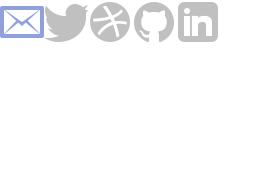
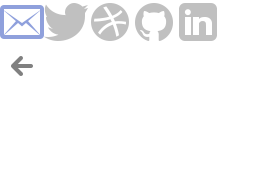
- Adds primitive navigate back from project behaviour - Better pages off animation + quicker strip down animation - Adds animated page scroll

diff --git a/assets/css/web.css b/assets/css/web.css
@@ -1,1 +1,1 @@
-body{margin:0;background:#fcfcfc;color:#323232;font-size:.85em;line-height:1.45}body,input,textarea,.meta{font-family:'Bitter', serif}.titlelike,h1,h2,.teaserline-tag{font-family:'Cabin', serif;font-weight:bold;font-size:.95rem}ul,ol,dl{margin:0;padding:0;list-style:none}dd,dt{display:inline-block}dd{margin-left:.35rem}dd:not(:last-child){margin-bottom:.35rem}.contact-link{background:url('../images/ui.png')}@media only screen and (-webkit-min-device-pixel-ratio: 2){.contact-link{background:url('../images/ui@2x.png');background-size:132px 88px}}html,body,.pages{height:100%}.wrapper{margin:0 auto}.pages{height:200%}.page{position:relative;display:table;width:100%;height:50%}.page-content{display:table-cell;vertical-align:middle}.footer{position:absolute;bottom:0;left:0;width:100%;padding-bottom:1.5rem;text-align:center;font-size:.6rem;line-height:1.2}.footer p:last-child{margin-bottom:0}.columns{letter-spacing:-.25rem}.column{display:inline-block;vertical-align:top;letter-spacing:normal}.column:not(:first-child){margin-left:10px}.column *:first-child{margin:0}.column-1{width:185px}.column-2{width:380px}.column-3{width:575px}.column-4{width:770px}.va-wrapper{display:table;width:100%;height:100%}.va-content{display:table-cell;vertical-align:middle;text-align:center}.crowded{line-height:1.25}.meta{font-size:inherit;text-align:right;line-height:1.1}.meta,.metalike{font-style:italic;font-weight:normal;color:#b2b2b2}.teaserline{position:absolute;width:100%;bottom:0;text-align:center}.teaserline.top{top:0}.teaserline.bottom{bottom:0}.teaserline::before{content:"";display:inline-block;width:2px;height:100%}.teaserline-tag-wrapper{position:absolute;top:0;text-transform:uppercase}.teaserline-tag{padding:.4em .6em;border-radius:3px;font-size:.75rem;letter-spacing:.05em;color:silver}a{text-decoration:none}a:not(.custom){border-bottom:1px solid;color:#8fa0dc;border-color:#dde2f4}.transitionable{transition:transform 0.4s cubic-bezier(0.48, -0.18, 0, 1.1);-webkit-transition:-webkit-transform 0.4s cubic-bezier(0.48, -0.18, 0, 1.1);-moz-transition:-moz-transform 0.4s cubic-bezier(0.48, -0.18, 0, 1.1);-ms-transition:-ms-transform 0.4s cubic-bezier(0.48, -0.18, 0, 1.1)}.transitionable-rough{transition:transform 0.4s cubic-bezier(0.5, 1, 0, 1.1);-webkit-transition:-webkit-transform 0.4s cubic-bezier(0.5, 1, 0, 1.1);-moz-transition:-moz-transform 0.4s cubic-bezier(0.5, 1, 0, 1.1);-ms-transition:-ms-transform 0.4s cubic-bezier(0.5, 1, 0, 1.1)}.transitionable-toned{transition:transform 0.6s ease-in-out;-webkit-transition:-webkit-transform 0.6s ease-in-out;-moz-transition:-moz-transform 0.6s ease-in-out;-ms-transition:-ms-transform 0.6s ease-in-out}.widthable{transition:width 0.4s cubic-bezier(1, -0.18, 0, 1.1);-webkit-transition:width 0.4s cubic-bezier(1, -0.18, 0, 1.1);-moz-transition:width 0.4s cubic-bezier(1, -0.18, 0, 1.1);-ms-transition:width 0.4s cubic-bezier(1, -0.18, 0, 1.1)}.fadable{transition:opacity 0.4s cubic-bezier(1, -0.18, 0, 1.1);-webkit-transition:opacity 0.4s cubic-bezier(1, -0.18, 0, 1.1);-moz-transition:opacity 0.4s cubic-bezier(1, -0.18, 0, 1.1);-ms-transition:opacity 0.4s cubic-bezier(1, -0.18, 0, 1.1)}.transparent{opacity:0 !important}.mode-project{overflow:hidden}.home-navigation{margin-top:3rem;text-align:center;text-transform:uppercase}.home-navigation-item:not(:first-child){margin-left:2em}.home-navigation-item.active .home-navigation-link,.home-navigation-item:focus .home-navigation-link,.home-navigation-item:hover .home-navigation-link{color:#8fa0dc}.home-navigation-link{color:#cbcbcb}.strip,.teaserline::before,.teaserline-tag{background:#f3f3f3}.strip{position:relative;height:2px;margin:10px 0}.navline{position:absolute;height:100%;background:#d2d9f1;-webkit-transition:-webkit-transform 0.4s cubic-bezier(0.48, -0.18, 0, 1.1);-webkit-transition-property:width, -webkit-transform}.strip-header{margin-top:.35rem}.projects{height:458px;line-height:0;-webkit-perspective:800px}.project-item{display:inline-block;width:185px;height:146px;border-radius:3px;box-shadow:inset 0 0 1px rgba(0,0,0,0.15);transition:0.1s cubic-bezier(0.5, 1, 0, 1.1);-webkit-transition:0.1s cubic-bezier(0.5, 1, 0, 1.1);-moz-transition:0.1s cubic-bezier(0.5, 1, 0, 1.1);-ms-transition:0.1s cubic-bezier(0.5, 1, 0, 1.1);transition-property:transform,opacity;-webkit-transition-property:-webkit-transform,opacity;-moz-transition-property:-moz-transform,opacity;-ms-transition-property:-ms-transform,opacity}.project-item:not(:nth-child(4n)){margin-right:10px}.project-item:not(:nth-child(-n+4)){margin-top:10px}.flock .project-item:nth-child(1),.flock-out .project-item:nth-last-child(1){-webkit-transition-delay:0.04s}.flock .project-item:nth-child(2),.flock-out .project-item:nth-last-child(2){-webkit-transition-delay:0.08s}.flock .project-item:nth-child(3),.flock-out .project-item:nth-last-child(3){-webkit-transition-delay:0.12s}.flock .project-item:nth-child(4),.flock-out .project-item:nth-last-child(4){-webkit-transition-delay:0.16s}.flock .project-item:nth-child(5),.flock-out .project-item:nth-last-child(5){-webkit-transition-delay:0.2s}.flock .project-item:nth-child(6),.flock-out .project-item:nth-last-child(6){-webkit-transition-delay:0.24s}.flock .project-item:nth-child(7),.flock-out .project-item:nth-last-child(7){-webkit-transition-delay:0.28s}.flock .project-item:nth-child(8),.flock-out .project-item:nth-last-child(8){-webkit-transition-delay:0.32s}.flock .project-item:nth-child(9),.flock-out .project-item:nth-last-child(9){-webkit-transition-delay:0.36s}.flock .project-item:nth-child(10),.flock-out .project-item:nth-last-child(10){-webkit-transition-delay:0.4s}.flock .project-item:nth-child(11),.flock-out .project-item:nth-last-child(11){-webkit-transition-delay:0.44s}.flock .project-item:nth-child(12),.flock-out .project-item:nth-last-child(12){-webkit-transition-delay:0.48s}.project-item:not(.active){pointer-events:none}.project-item.off{-webkit-transform:translate3d(0, 500%, 0);opacity:0}.project-item.pop-ready{-webkit-transform:rotateY(90deg) rotateY(40deg) scale(0.1);opacity:0}.project-item:hover,.project-item:focus{transform:scale(0.95);-webkit-transform:scale(0.95);-moz-transform:scale(0.95);-ms-transform:scale(0.95)}.project-item:hover .showcase-art,.project-item:focus .showcase-art{transform:scale(1.1);-webkit-transform:scale(1.1);-moz-transform:scale(1.1);-ms-transform:scale(1.1)}.showcase-art{position:relative;display:inline-block}.teaserline.bottom{height:30px}.teaserline.top{height:145px}.home-footer{margin-top:4em;font-size:.85rem}.justified{text-align:justify;text-align-last:justify}.justified::after{content:"";display:inline-block;width:100%}.about-header{text-align:center}.about-title{font-size:1.4rem;margin:.7rem 0 0;color:#b2b2b2}.about-title span{display:none}.about-title::before{content:"Oz Pinhas"}.about-subtitle{margin:0}.about-job{width:24em;margin:1rem auto}.about-job .meta{width:5.1em}.previously{text-decoration:line-through}.contact-item:not(:first-child){margin-left:68px}.contact-item:hover,.contact-item:active{transform:translate3d(0, -5px, 0);-webkit-transform:translate3d(0, -5px, 0);-moz-transform:translate3d(0, -5px, 0);-ms-transform:translate3d(0, -5px, 0)}.contact-link{display:block;width:22px;height:22px;overflow:hidden;text-indent:-9999em}.contact-link-email{background-position:0px 0}.contact-link-twitter{background-position:-22px 0}.contact-link-dribbble{background-position:-44px 0}.contact-link-github{background-position:-66px 0}.contact-link-linkedin{background-position:-88px 0}.project{position:absolute;top:0;left:0;width:100%;overflow:auto;height:100%}.project:not(.active){z-index:-1}.project-artwork{position:absolute}.project-header{position:relative;height:292px;overflow:hidden;text-align:center}.project-header.colored::after{content:"";position:absolute;bottom:0;left:0;width:100%;height:1px;background:rgba(0,0,0,0.08)}.ripple{display:inline-block;width:292px;height:292px;border-radius:100%;transform:translate3d(0, 30px, 0) scale(0);-webkit-transform:translate3d(0, 30px, 0) scale(0);-moz-transform:translate3d(0, 30px, 0) scale(0);-ms-transform:translate3d(0, 30px, 0) scale(0)}.project-title{position:absolute;bottom:.8em;width:100%;font-size:1.3rem;opacity:.6}.project-meta{width:21em;margin:2rem auto 0}.project-meta dt{width:3em}.project-meta dd{width:17em}.project-separator{width:20px;height:20px;margin:6.2rem auto}
+body{margin:0;background:#fcfcfc;color:#323232;font-size:.85em;line-height:1.45}body,input,textarea,.meta{font-family:'Bitter', serif}.titlelike,h1,h2,.teaserline-tag{font-family:'Cabin', serif;font-weight:bold;font-size:.95rem}ul,ol,dl{margin:0;padding:0;list-style:none}dd,dt{display:inline-block}dd{margin-left:.35rem}dd:not(:last-child){margin-bottom:.35rem}.contact-link,.back-button::before{background:url('../images/ui.png')}@media only screen and (-webkit-min-device-pixel-ratio: 2){.contact-link,.back-button::before{background:url('../images/ui@2x.png');background-size:132px 88px}}html,body,.pages{height:100%}.wrapper{margin:0 auto}.pages{height:200%}.page{position:relative;display:table;width:100%;height:50%}.page-content{display:table-cell;vertical-align:middle}.footer{position:absolute;bottom:0;left:0;width:100%;padding-bottom:1.5rem;text-align:center;font-size:.6rem;line-height:1.2}.footer p:last-child{margin-bottom:0}.columns{letter-spacing:-.25rem}.column{display:inline-block;vertical-align:top;letter-spacing:normal}.column:not(:first-child){margin-left:10px}.column *:first-child{margin:0}.column-1{width:185px}.column-2{width:380px}.column-3{width:575px}.column-4{width:770px}.va-wrapper{display:table;width:100%;height:100%}.va-content{display:table-cell;vertical-align:middle;text-align:center}.crowded{line-height:1.25}.meta{font-size:inherit;text-align:right;line-height:1.1}.meta,.metalike{font-style:italic;font-weight:normal;color:#b2b2b2}.teaserline{position:absolute;width:100%;bottom:0;text-align:center}.teaserline.top{top:0}.teaserline.bottom{bottom:0}.teaserline::before{content:"";display:inline-block;width:2px;height:100%}.teaserline-tag-wrapper{position:absolute;top:0;text-transform:uppercase}.teaserline-tag{padding:.4em .6em;border-radius:3px;font-size:.75rem;letter-spacing:.05em;color:silver}a{text-decoration:none}a:not(.custom){border-bottom:1px solid;color:#8fa0dc;border-color:#dde2f4}.transitionable{transition:transform 0.4s cubic-bezier(0.48, -0.18, 0, 1.1);-webkit-transition:-webkit-transform 0.4s cubic-bezier(0.48, -0.18, 0, 1.1);-moz-transition:-moz-transform 0.4s cubic-bezier(0.48, -0.18, 0, 1.1);-ms-transition:-ms-transform 0.4s cubic-bezier(0.48, -0.18, 0, 1.1)}.transitionable-rough{transition:transform 0.4s cubic-bezier(0.5, 1, 0, 1.1);-webkit-transition:-webkit-transform 0.4s cubic-bezier(0.5, 1, 0, 1.1);-moz-transition:-moz-transform 0.4s cubic-bezier(0.5, 1, 0, 1.1);-ms-transition:-ms-transform 0.4s cubic-bezier(0.5, 1, 0, 1.1)}.transitionable-rough-slow{transition:transform 0.6s cubic-bezier(0.5, 1, 0, 1.1);-webkit-transition:-webkit-transform 0.6s cubic-bezier(0.5, 1, 0, 1.1);-moz-transition:-moz-transform 0.6s cubic-bezier(0.5, 1, 0, 1.1);-ms-transition:-ms-transform 0.6s cubic-bezier(0.5, 1, 0, 1.1)}.transitionable-toned{transition:transform 0.6s ease-in-out;-webkit-transition:-webkit-transform 0.6s ease-in-out;-moz-transition:-moz-transform 0.6s ease-in-out;-ms-transition:-ms-transform 0.6s ease-in-out}.widthable{transition:width 0.4s cubic-bezier(1, -0.18, 0, 1.1);-webkit-transition:width 0.4s cubic-bezier(1, -0.18, 0, 1.1);-moz-transition:width 0.4s cubic-bezier(1, -0.18, 0, 1.1);-ms-transition:width 0.4s cubic-bezier(1, -0.18, 0, 1.1)}.fadable{transition:opacity 0.4s cubic-bezier(1, -0.18, 0, 1.1);-webkit-transition:opacity 0.4s cubic-bezier(1, -0.18, 0, 1.1);-moz-transition:opacity 0.4s cubic-bezier(1, -0.18, 0, 1.1);-ms-transition:opacity 0.4s cubic-bezier(1, -0.18, 0, 1.1)}.transparent{opacity:0 !important}.mode-project{overflow:hidden}.home-navigation{margin-top:3rem;text-align:center;text-transform:uppercase}.home-navigation-item:not(:first-child){margin-left:2em}.home-navigation-item.active .home-navigation-link,.home-navigation-item:focus .home-navigation-link,.home-navigation-item:hover .home-navigation-link{color:#8fa0dc}.home-navigation-link{color:#cbcbcb}.strip,.teaserline::before,.teaserline-tag{background:#f3f3f3}.strip{position:relative;height:2px;margin:10px 0}.navline{position:absolute;height:100%;background:#d2d9f1;-webkit-transition:-webkit-transform 0.4s cubic-bezier(0.48, -0.18, 0, 1.1);-webkit-transition-property:width, -webkit-transform}.strip-header{margin-top:.35rem}.projects{height:458px;line-height:0;-webkit-perspective:800px}.project-item{display:inline-block;width:185px;height:146px;border-radius:3px;box-shadow:inset 0 0 1px rgba(0,0,0,0.15);transition:0.1s cubic-bezier(0.5, 1, 0, 1.1);-webkit-transition:0.1s cubic-bezier(0.5, 1, 0, 1.1);-moz-transition:0.1s cubic-bezier(0.5, 1, 0, 1.1);-ms-transition:0.1s cubic-bezier(0.5, 1, 0, 1.1);transition-property:transform,opacity;-webkit-transition-property:-webkit-transform,opacity;-moz-transition-property:-moz-transform,opacity;-ms-transition-property:-ms-transform,opacity}.project-item:not(:nth-child(4n)){margin-right:10px}.project-item:not(:nth-child(-n+4)){margin-top:10px}.flock .project-item:nth-child(1),.flock-out .project-item:nth-last-child(1){-webkit-transition-delay:0.04s}.flock .project-item:nth-child(2),.flock-out .project-item:nth-last-child(2){-webkit-transition-delay:0.08s}.flock .project-item:nth-child(3),.flock-out .project-item:nth-last-child(3){-webkit-transition-delay:0.12s}.flock .project-item:nth-child(4),.flock-out .project-item:nth-last-child(4){-webkit-transition-delay:0.16s}.flock .project-item:nth-child(5),.flock-out .project-item:nth-last-child(5){-webkit-transition-delay:0.2s}.flock .project-item:nth-child(6),.flock-out .project-item:nth-last-child(6){-webkit-transition-delay:0.24s}.flock .project-item:nth-child(7),.flock-out .project-item:nth-last-child(7){-webkit-transition-delay:0.28s}.flock .project-item:nth-child(8),.flock-out .project-item:nth-last-child(8){-webkit-transition-delay:0.32s}.flock .project-item:nth-child(9),.flock-out .project-item:nth-last-child(9){-webkit-transition-delay:0.36s}.flock .project-item:nth-child(10),.flock-out .project-item:nth-last-child(10){-webkit-transition-delay:0.4s}.flock .project-item:nth-child(11),.flock-out .project-item:nth-last-child(11){-webkit-transition-delay:0.44s}.flock .project-item:nth-child(12),.flock-out .project-item:nth-last-child(12){-webkit-transition-delay:0.48s}.project-item:not(.active){pointer-events:none}.project-item.off{-webkit-transform:translate3d(0, 500%, 0);opacity:0}.project-item.pop-ready{-webkit-transform:rotateY(90deg) rotateY(40deg) scale(0.1);opacity:0}.project-item:hover,.project-item:focus{transform:scale(0.95);-webkit-transform:scale(0.95);-moz-transform:scale(0.95);-ms-transform:scale(0.95)}.project-item:hover .showcase-art,.project-item:focus .showcase-art{transform:scale(1.1);-webkit-transform:scale(1.1);-moz-transform:scale(1.1);-ms-transform:scale(1.1)}.showcase-art{position:relative;display:inline-block}.teaserline.bottom{height:30px}.teaserline.top{height:145px}.home-footer{margin-top:4em;font-size:.85rem}.justified{text-align:justify;text-align-last:justify}.justified::after{content:"";display:inline-block;width:100%}.pages.off{transform:translate3d(0, 50%, 0);-webkit-transform:translate3d(0, 50%, 0);-moz-transform:translate3d(0, 50%, 0);-ms-transform:translate3d(0, 50%, 0)}.about-header{text-align:center}.about-title{font-size:1.4rem;margin:.7rem 0 0;color:#b2b2b2}.about-title span{display:none}.about-title::before{content:"Oz Pinhas"}.about-subtitle{margin:0}.about-job{width:24em;margin:1rem auto}.about-job .meta{width:5.1em}.previously{text-decoration:line-through}.contact-item:not(:first-child){margin-left:68px}.contact-item:hover,.contact-item:active{transform:translate3d(0, -5px, 0);-webkit-transform:translate3d(0, -5px, 0);-moz-transform:translate3d(0, -5px, 0);-ms-transform:translate3d(0, -5px, 0)}.contact-link{display:block;width:22px;height:22px;overflow:hidden;text-indent:-9999em}.contact-link-email{background-position:0px 0}.contact-link-twitter{background-position:-22px 0}.contact-link-dribbble{background-position:-44px 0}.contact-link-github{background-position:-66px 0}.contact-link-linkedin{background-position:-88px 0}.project{position:absolute;top:0;left:0;width:100%;overflow:auto;height:100%}.project:not(.active){z-index:-1}.project-artwork{position:absolute}.project-header{position:relative;height:292px;overflow:hidden;text-align:center}.project-header.colored::after{content:"";position:absolute;bottom:0;left:0;width:100%;height:1px;background:rgba(0,0,0,0.08)}.ripple{display:inline-block;width:292px;height:292px;border-radius:100%;transform:translate3d(0, 30px, 0) scale(0);-webkit-transform:translate3d(0, 30px, 0) scale(0);-moz-transform:translate3d(0, 30px, 0) scale(0);-ms-transform:translate3d(0, 30px, 0) scale(0)}.project-title{position:absolute;bottom:.8em;width:100%;font-size:1.3rem;opacity:.6}.back-button{position:absolute;top:0.5em;left:0.5em;padding:0.5em;cursor:pointer}.back-button::before{content:"";display:block;width:22px;height:22px;background-position:0 -22px}.back-button:hover,.back-button:focus{transform:scale(1.1);-webkit-transform:scale(1.1);-moz-transform:scale(1.1);-ms-transform:scale(1.1)}.project-meta{width:21em;margin:2rem auto 0}.project-meta dt{width:3em}.project-meta dd{width:17em}.project-separator{width:20px;height:20px;margin:6.2rem auto}

diff --git a/src/js/projects.js b/src/js/projects.js
@@ -15,13 +15,16 @@ var Projects = {
 		projectAnimation: false
 	},
 	projectData: null,
+	activeProject: null,
 
 	/* Setup */
 	setup: function() {
 		Projects.e = $(".project");
-		Projects.eArt = Projects.e.find(".project-artwork");
+		Projects.eArt = $(".project-artwork");
 
 		$(".projects").on("click", Projects.handle_item_activation, { isCaptured: true });
+
+		$(".project .back-button").on("click", Projects.navigate_back);
 	},
 
 	/* Creation */
@@ -209,11 +212,12 @@ var Projects = {
 	navigate: function(project, item) {
 		// Synthesizing args
 		project = Projects.items[Projects.activeCollection][project];
-		item = item || document.querySelector(".project-item[data-id='" + projects.id + "']");
+		item = item || document.querySelector(".project-item[data-id='" + project.id + "']");
 
 		// Marking project as hasn't been loaded yet
 		Projects.did.projectData = false;
 		Projects.did.projectAnimation = false;
+		Projects.activeProject = project.id;
 
 		// Loading project data
 		Projects.animate_into_project(project, item);
@@ -240,7 +244,7 @@ var Projects = {
 		Projects.artData.height = realArt.offsetHeight;
 
 		// Prepping page + UI
-		window.scrollTo(0,0); // TODO: animation
+		_.animate_scroll(document.body);
 		$(document.body).addClass("mode-project");
 		Projects.e.addClass("active");
 
@@ -250,7 +254,7 @@ var Projects = {
 		Projects.eArt[0].style.left = Projects.artData.x + "px";
 		Projects.eArt[0].style.top = Projects.artData.y + "px";
 
-		$(".pages").transform("translate3d(0,50%,0)");
+		$(".pages").addClass("off");
 		
 		// Hiding showcase page + real artwork
 		$(realArt).addClass("transparent");
@@ -290,16 +294,14 @@ var Projects = {
 				Projects.eArt.translate(Projects.artData.newX, Projects.artData.newY);
 				setTimeout(function() {
 					ripple.transform("translate3d(0,30px,0) scale(5)");
-					Projects.e.find(".project-title, .project-meta, .project-separator, .project-content").addClass("fadable").removeClass("transparent");
+					Projects.e.find(".project-title, .project-meta, .project-separator, .project-content, .back-button").addClass("fadable").removeClass("transparent");
 					
 					setTimeout(function() {
 						Projects.e.find(".project-header").addClass("colored");
 					}, 200);
 				}, 200);
 			});
-
-
-		}, 700);
+		}, 300);
 
 		Projects.set_project_page_content(data);
 	},
@@ -325,5 +327,42 @@ var Projects = {
 		content.className = "project-content p-" + data.id + " c-" + data.color;
 
 		$([title, meta, separator, content]).addClass("transparent");
+	},
+
+	navigate_back: function() {
+		// Prepping page + UI
+		_.animate_scroll(document.body);
+
+		Projects.e.find(".project-title, .project-meta, .project-separator, .project-content, .back-button").addClass("transparent");
+
+		Projects.e.find(".project-header").removeClass("colored").find(".ripple").transform("");
+
+		Projects.eArt.transform("translate3d(" + Projects.artData.newX + "px," + Projects.artData.newY + "px,0) scale(" + Projects.ART_DEPTH + ")");
+		$.transitionEnd("transform", Projects.eArt[0], function() {
+			$(".pages").removeClass("off");
+			Projects.eArt.transform("scale(" + Projects.ART_DEPTH + ")");
+
+			$.transitionEnd("transform", Projects.eArt[0], function() {
+				// Reverting to finalized version
+				var sketch = Projects.eArt.find(".se-sketch");
+
+				sketch.addClass("c-" + Projects.activeProject + "-main");
+				Projects.eArt.find("*").removeClass("transparent");
+				sketch.removeClass("reverted");
+
+				$.transitionEnd("width", sketch[0], function() {
+					Projects.eArt.transform("");
+
+					$.transitionEnd("transform", Projects.eArt[0], function() {
+						Projects.eArt.addClass("transparent");
+						$(".project-item[data-id='" + Projects.activeProject + "'] .showcase-art").removeClass("transparent");
+
+						// Giving back control..
+						$(document.body).removeClass("mode-project");
+						Projects.e.removeClass("active");
+					});
+				});
+			});
+		});
 	}
 };

diff --git a/src/js/helpers.js b/src/js/helpers.js
@@ -5,5 +5,33 @@ var _ = {
 
     data_url: function(str) {
         return _.url("data/" + str);
+    },
+
+    /* RequestAnimationFrame-based scroll from (https://gist.github.com/james2doyle/5694700) */
+    easeInOutCubic: function(t, b, c, d) {
+        if ((t/=d/2) < 1) return c/2*t*t*t + b;
+        return c/2*((t-=2)*t*t + 2) + b;
+    },
+
+    animate_scroll: function(element, callback) {
+        var rAF = window.requestAnimationFrame || window.webkitRequestAnimationFrame || window.mozRequestAnimationFrame || function (callback) { window.setTimeout(callback, 1000 / 60); },
+            eDoc = (navigator.userAgent.indexOf('Firefox') != -1 || navigator.userAgent.indexOf('MSIE') != -1) ? document.documentElement : document.body,
+            scrollStart = eDoc.scrollTop,
+            scrollEnd = element.offsetTop,
+            change = scrollEnd - scrollStart,
+            tick = 0,
+            duration = 300;
+
+        function scroll_a_bit() {
+            tick += 20;
+            eDoc.scrollTop = _.easeInOutCubic(tick, scrollStart, change, duration);
+
+            if (tick < duration) {
+                rAF(scroll_a_bit);
+            } else {
+                callback && callback();
+            }
+        }
+        (scrollStart !== scrollEnd) && scroll_a_bit();
     }
 }

diff --git a/src/scss/_base.scss b/src/scss/_base.scss
@@ -39,7 +39,8 @@ dd {
 }
 
 /* ======= Shared ======= */
-.contact-link {
+.contact-link,
+.back-button::before {
 	background: image-url("ui.png", false, false);
 
 	@media only screen and (-webkit-min-device-pixel-ratio: 2) {
@@ -167,6 +168,7 @@ a {
 /* ======= Transitions ======= */
 .transitionable { @include transition-transform($duration $easing-cubic); }
 .transitionable-rough { @include transition-transform($duration $easing-cubic-rough); }
+.transitionable-rough-slow { @include transition-transform($duration * 1.5 $easing-cubic-rough); }
 .transitionable-toned { @include transition-transform($duration * 1.5 ease-in-out); }
 
 .widthable { @include transition(width $duration $easing-cubic-better); }

diff --git a/src/scss/pages/_about.scss b/src/scss/pages/_about.scss
@@ -20,8 +20,6 @@
 
 
 /* ======= Contact Links ======= */
-$size-contact-icon: 22px;
-
 .contact-item {
     &:not(:first-child) { margin-left: 68px; }
 
@@ -30,14 +28,14 @@ $size-contact-icon: 22px;
 }
 .contact-link {
     display: block;
-    width: $size-contact-icon;
-    height: $size-contact-icon;
+    width: $size-ui-sprite;
+    height: $size-ui-sprite;
     overflow: hidden;
     text-indent: -9999em;
 }
 $i: 0;
 @each $item in email, twitter, dribbble, github, linkedin {
-    .contact-link-#{$item} { background-position: $i * $size-contact-icon * -1 0; }
+    .contact-link-#{$item} { background-position: $i * $size-ui-sprite * -1 0; }
     
     $i: $i + 1;
 }

diff --git a/src/scss/pages/_project.scss b/src/scss/pages/_project.scss
@@ -51,6 +51,25 @@ $size-project-header: $size-grid-row * 2;
     opacity: .6;
 }
 
+.back-button {
+    position: absolute;
+    top: $space;
+    left: $space;
+    padding: $space;
+    cursor: pointer;
+
+    &::before {
+        content: "";
+        display: block;
+        width: $size-ui-sprite;
+        height: $size-ui-sprite;
+        background-position: 0 $size-ui-sprite * -1;
+    }
+
+    &:hover,
+    &:focus { @include transform(scale(1.1)); }
+}
+
 /* ======= Content ======= */
 .project-meta {
     width: 21em;

diff --git a/index.html b/index.html
@@ -13,7 +13,7 @@
 	<style id="styleRuntime"></style>
 </head>
 <body>
-	<div class="pages transitionable" data-page="home">
+	<div class="pages transitionable-rough-slow" data-page="home">
 		<!-- Projects -->
 		<a name="projects"></a>
 		<div class="page" data-for="home">
@@ -76,6 +76,7 @@
 	<div class="project">
 		<div class="project-header">
 			<div class="ripple"></div>
+			<div class="back-button transitionable-rough transparent"></div>
 			<h1 class="project-title"></h1>
 		</div>
 		<div class="project-artwork"></div>

diff --git a/src/scss/_vars.scss b/src/scss/_vars.scss
@@ -18,6 +18,8 @@ $size-grid-row: 146px;
 $size-grid-gutter: 10px;
 $size-wrapper: $size-grid-column * $columns;
 
+$size-ui-sprite: 22px;
+
 // Z-indexes
 $z-navbar: 1;
 

diff --git a/src/scss/pages/_home.scss b/src/scss/pages/_home.scss
@@ -116,3 +116,8 @@
 		width: 100%;
 	}
 }
+
+//
+.pages.off {
+	@include transform(translate3d(0,50%,0)); 
+}
